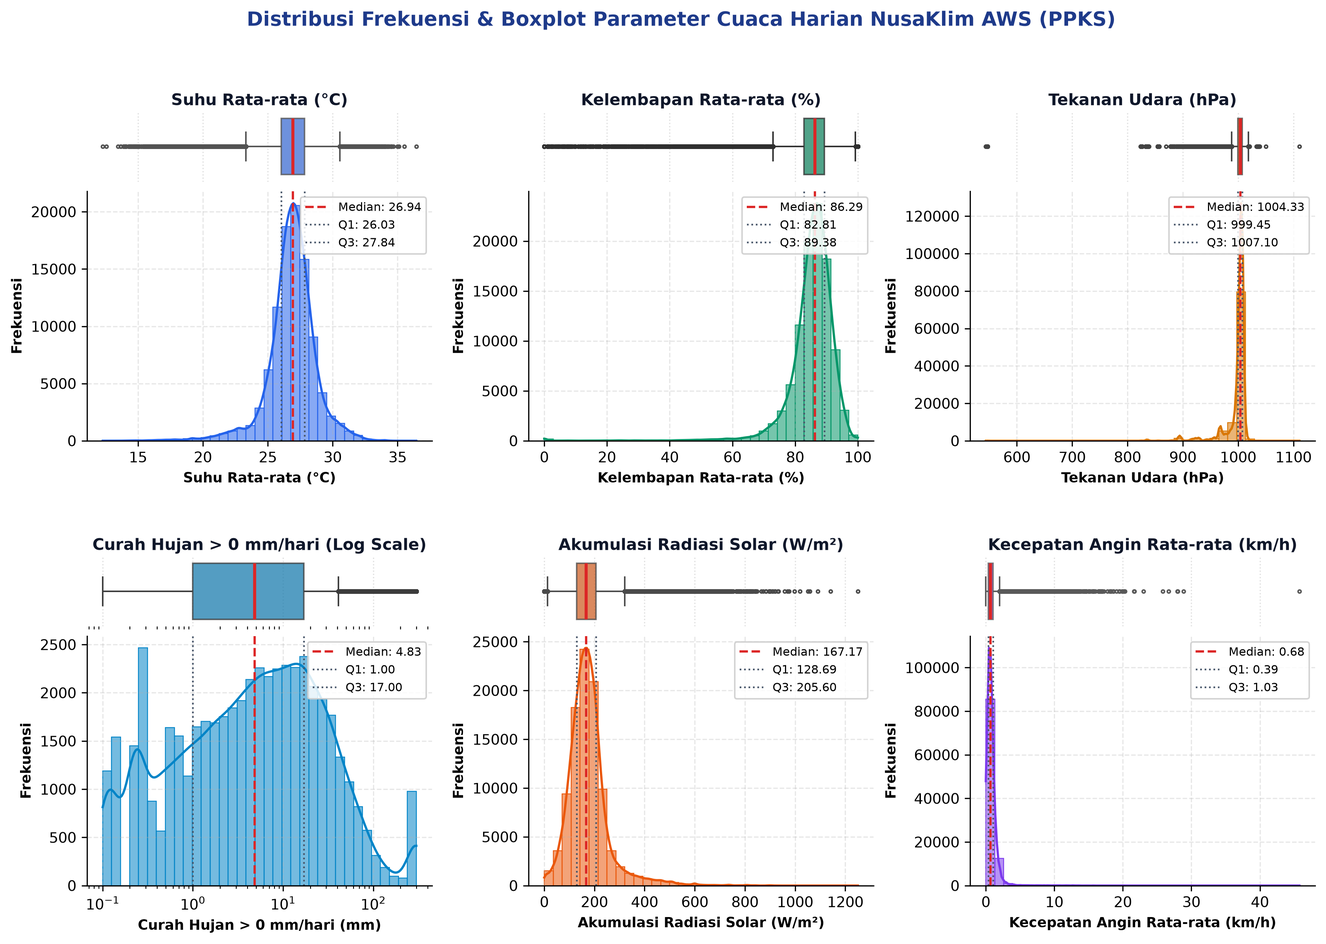
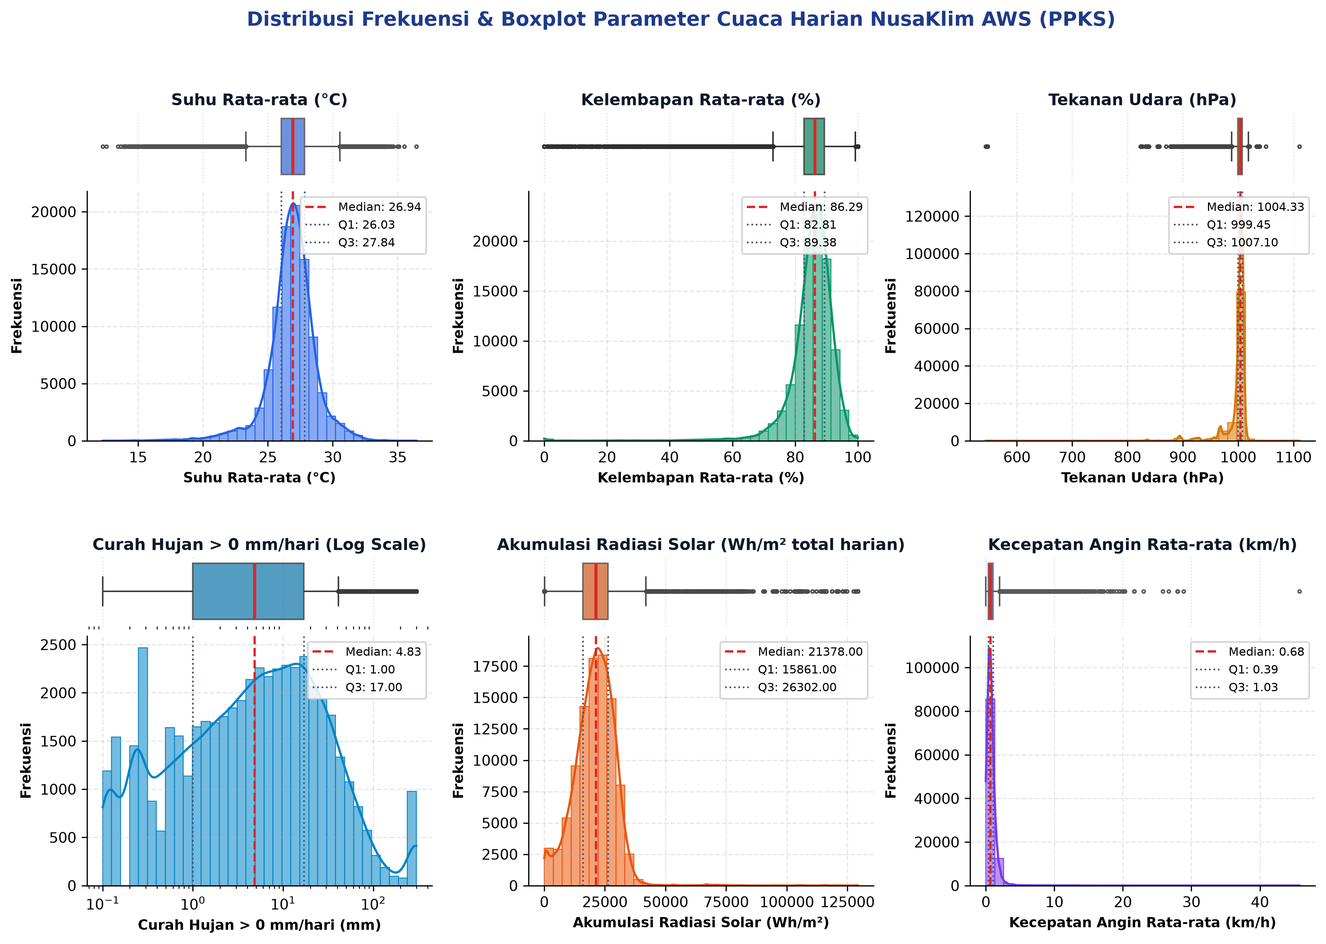
Laporan 2: radiasi sebagai total harian (SUM): statistik, korelasi, dekomposisi, figur

diff --git a/generate_pdf.py b/generate_pdf.py
@@ -235,7 +235,7 @@ story.append(Paragraph(
     '&bull; <b>Prinsip dasar:</b> apabila suatu nilai tidak valid untuk parameter tertentu, nilai tersebut tidak diikutsertakan dalam perhitungan parameter itu (dikosongkan/NaN). Namun, apabila parameter lain pada baris (stasiun &amp; waktu) yang sama masih valid, baris tersebut tetap dipakai untuk perhitungan parameter lain yang valid itu &ndash; satu nilai eror pada satu parameter tidak menggugurkan seluruh baris.<br/>'
     '&bull; <b>Dampak pada rata-rata &amp; agregasi harian:</b> Rata-rata/penjumlahan harian pada Bab 3 dihitung hanya dari nilai interval yang valid (non-NaN) untuk parameter itu pada hari &amp; stasiun bersangkutan; nilai NaN diabaikan (bukan dianggap nol), sehingga tidak mengecilkan rata-rata secara keliru.<br/>'
     '&bull; <b>Status dalam data training model:</b> Nilai eror yang sudah dikosongkan (NaN) <b>tidak diikutsertakan</b> sebagai input pelatihan model &ndash; nilai NaN pada suatu parameter membuat baris tersebut di-skip khusus untuk parameter itu, dan tidak ada nilai eror mentah (mis. 3276.7&deg;F atau 32767) yang pernah masuk ke tahap pemodelan.<br/>'
-    '&bull; <b>Baris dengan sebagian parameter kosong:</b> baris hari-stasiun yang salah satu parameternya kosong tetap disertakan dalam dataset harian 114.507 baris dan tetap dipakai untuk analisis/pemodelan parameter lain yang datanya lengkap; baris tersebut hanya dikeluarkan dari analisis/statistik yang secara khusus mensyaratkan kelengkapan seluruh 8 variabel sekaligus (lihat catatan N Valid 98.911 pada Bab 4.1).',
+    '&bull; <b>Baris dengan sebagian parameter kosong:</b> baris hari-stasiun yang salah satu parameternya kosong tetap disertakan dalam dataset harian 114.507 baris dan tetap dipakai untuk analisis/pemodelan parameter lain yang datanya lengkap; baris tersebut hanya dikeluarkan dari analisis/statistik yang secara khusus mensyaratkan kelengkapan seluruh 8 variabel sekaligus (lihat catatan N Valid 98.651 pada Bab 4.1).',
     style_body
 ))
 
@@ -255,7 +255,7 @@ story.append(Paragraph('3.1 Formula Agregasi Harian', style_h2))
 agg_rules_data = [
     [Paragraph('Variabel Cuaca', style_table_header), Paragraph('Satuan Raw', style_table_header), Paragraph('Satuan Target', style_table_header), Paragraph('Metode Agregasi', style_table_header), Paragraph('Formula Matematis &amp; Keterangan', style_table_header)],
     [Paragraph('<b>Curah Hujan (Rain)</b>', style_table_cell_bold), Paragraph('Tipping raw', style_table_cell), Paragraph('mm / hari', style_table_cell), Paragraph('<b>Penjumlahan (SUM)</b>', style_table_cell_bold), Paragraph('<code>R_harian = &Sigma; (rain15 * 12.70)</code><br/>Akumulasi presipitasi total dalam 24 jam.', style_table_cell)],
-    [Paragraph('<b>Radiasi Solar</b>', style_table_cell_bold), Paragraph('W/m²', style_table_cell), Paragraph('W/m² (rata-rata harian)', style_table_cell), Paragraph('<b>Rata-rata (MEAN)</b>', style_table_cell_bold), Paragraph('<code>Solar_harian = rata-rata (solar_15min)</code><br/>Rata-rata radiasi matahari harian; bukan jumlah, agar tidak bergantung pada banyaknya pembacaan per hari.', style_table_cell)],
+    [Paragraph('<b>Radiasi Solar</b>', style_table_cell_bold), Paragraph('W/m²', style_table_cell), Paragraph('Wh/m² (total harian)', style_table_cell), Paragraph('<b>Jumlah (SUM)</b>', style_table_cell_bold), Paragraph('<code>Solar_harian = jumlah (solar_15min)</code><br/>Total pembacaan radiasi sepanjang hari (skala puluhan ribu, Notulen Poin 12); nilainya ikut dipengaruhi jumlah pembacaan yang diterima server.', style_table_cell)],
     [Paragraph('<b>Suhu Udara (Temp)</b>', style_table_cell_bold), Paragraph('°F', style_table_cell), Paragraph('°C', style_table_cell), Paragraph('<b>Rata-rata (MEAN)</b> + Min/Max', style_table_cell), Paragraph('<code>T_avg = (1/N) &Sigma; T_C</code><br/>Dilengkapi pencatatan <code>T_min</code> dan <code>T_max</code>.', style_table_cell)],
     [Paragraph('<b>Tekanan Barometer</b>', style_table_cell_bold), Paragraph('inHg', style_table_cell), Paragraph('hPa (mbar)', style_table_cell), Paragraph('<b>Rata-rata (MEAN)</b>', style_table_cell), Paragraph('<code>P_avg = (1/N) &Sigma; (bar * 33.864)</code><br/>Rata-rata tekanan permukaan laut / stasiun.', style_table_cell)],
     [Paragraph('<b>Kelembapan (RH)</b>', style_table_cell_bold), Paragraph('%', style_table_cell), Paragraph('%', style_table_cell), Paragraph('<b>Rata-rata (MEAN)</b> + Min/Max', style_table_cell), Paragraph('<code>RH_avg = (1/N) &Sigma; RH</code><br/>Dilengkapi pencatatan <code>RH_min</code> dan <code>RH_max</code>.', style_table_cell)],
@@ -311,16 +311,16 @@ story.append(Paragraph(
     style_body
 ))
 
-story.append(Paragraph('4.1 Statistik Deskriptif Agregasi Harian (Data Lengkap: 98.911 Baris)', style_h2))
+story.append(Paragraph('4.1 Statistik Deskriptif Agregasi Harian (Data Lengkap: 98.651 Baris)', style_h2))
 
 stats_table_data = [
     [Paragraph('Variabel Cuaca', style_table_header), Paragraph('N Valid', style_table_header), Paragraph('Mean &plusmn; Std', style_table_header), Paragraph('Min', style_table_header), Paragraph('Quartil 1<br/>(Q1 / P25)', style_table_header), Paragraph('Median<br/>(Q2 / P50)', style_table_header), Paragraph('Quartil 3<br/>(Q3 / P75)', style_table_header), Paragraph('P99', style_table_header), Paragraph('Max', style_table_header)],
-    [Paragraph('<b>Suhu Rata-rata (°C)</b>', style_table_cell_bold), Paragraph('98.911', style_table_cell_center), Paragraph('26.86 &plusmn; 1.83', style_table_cell_center), Paragraph('12.28', style_table_cell_center), Paragraph('26.04', style_table_cell_center), Paragraph('26.95', style_table_cell_center), Paragraph('27.84', style_table_cell_center), Paragraph('31.33', style_table_cell_center), Paragraph('36.44', style_table_cell_center)],
-    [Paragraph('<b>Kelembapan Avg (%)</b>', style_table_cell_bold), Paragraph('98.911', style_table_cell_center), Paragraph('85.45 &plusmn; 6.69', style_table_cell_center), Paragraph('1.17', style_table_cell_center), Paragraph('82.86', style_table_cell_center), Paragraph('86.32', style_table_cell_center), Paragraph('89.39', style_table_cell_center), Paragraph('96.40', style_table_cell_center), Paragraph('100.00', style_table_cell_center)],
-    [Paragraph('<b>Tekanan Udara (hPa)</b>', style_table_cell_bold), Paragraph('98.911', style_table_cell_center), Paragraph('998.07 &plusmn; 21.60', style_table_cell_center), Paragraph('543.89', style_table_cell_center), Paragraph('999.51', style_table_cell_center), Paragraph('1004.35', style_table_cell_center), Paragraph('1007.11', style_table_cell_center), Paragraph('1013.08', style_table_cell_center), Paragraph('1020.29', style_table_cell_center)],
-    [Paragraph('<b>Curah Hujan (mm/hari)</b>', style_table_cell_bold), Paragraph('98.911', style_table_cell_center), Paragraph('9.19 &plusmn; 32.56', style_table_cell_center), Paragraph('0.00', style_table_cell_center), Paragraph('0.00', style_table_cell_center), Paragraph('0.10', style_table_cell_center), Paragraph('4.80', style_table_cell_center), Paragraph('185.43', style_table_cell_center), Paragraph('300.00', style_table_cell_center)],
-    [Paragraph('<b>Radiasi Solar (W/m²)</b>', style_table_cell_bold), Paragraph('98.911', style_table_cell_center), Paragraph('173.7 &plusmn; 86.2', style_table_cell_center), Paragraph('0', style_table_cell_center), Paragraph('126.7', style_table_cell_center), Paragraph('166.1', style_table_cell_center), Paragraph('204.9', style_table_cell_center), Paragraph('498.9', style_table_cell_center), Paragraph('1141.3', style_table_cell_center)],
-    [Paragraph('<b>Kecepatan Angin (km/h)</b>', style_table_cell_bold), Paragraph('98.911', style_table_cell_center), Paragraph('0.82 &plusmn; 0.94', style_table_cell_center), Paragraph('0.00', style_table_cell_center), Paragraph('0.39', style_table_cell_center), Paragraph('0.68', style_table_cell_center), Paragraph('1.03', style_table_cell_center), Paragraph('3.47', style_table_cell_center), Paragraph('45.77', style_table_cell_center)],
+    [Paragraph('<b>Suhu Rata-rata (°C)</b>', style_table_cell_bold), Paragraph('98.651', style_table_cell_center), Paragraph('26.86 &plusmn; 1.83', style_table_cell_center), Paragraph('12.28', style_table_cell_center), Paragraph('26.04', style_table_cell_center), Paragraph('26.95', style_table_cell_center), Paragraph('27.84', style_table_cell_center), Paragraph('31.33', style_table_cell_center), Paragraph('36.44', style_table_cell_center)],
+    [Paragraph('<b>Kelembapan Avg (%)</b>', style_table_cell_bold), Paragraph('98.651', style_table_cell_center), Paragraph('85.46 &plusmn; 6.69', style_table_cell_center), Paragraph('1.17', style_table_cell_center), Paragraph('82.88', style_table_cell_center), Paragraph('86.33', style_table_cell_center), Paragraph('89.40', style_table_cell_center), Paragraph('96.40', style_table_cell_center), Paragraph('100.00', style_table_cell_center)],
+    [Paragraph('<b>Tekanan Udara (hPa)</b>', style_table_cell_bold), Paragraph('98.651', style_table_cell_center), Paragraph('998.06 &plusmn; 21.63', style_table_cell_center), Paragraph('543.89', style_table_cell_center), Paragraph('999.49', style_table_cell_center), Paragraph('1004.36', style_table_cell_center), Paragraph('1007.12', style_table_cell_center), Paragraph('1013.09', style_table_cell_center), Paragraph('1020.29', style_table_cell_center)],
+    [Paragraph('<b>Curah Hujan (mm/hari)</b>', style_table_cell_bold), Paragraph('98.651', style_table_cell_center), Paragraph('9.20 &plusmn; 32.60', style_table_cell_center), Paragraph('0.00', style_table_cell_center), Paragraph('0.00', style_table_cell_center), Paragraph('0.10', style_table_cell_center), Paragraph('4.75', style_table_cell_center), Paragraph('187.26', style_table_cell_center), Paragraph('300.00', style_table_cell_center)],
+    [Paragraph('<b>Radiasi Solar (Wh/m² total harian)</b>', style_table_cell_bold), Paragraph('98.651', style_table_cell_center), Paragraph('20.584 &plusmn; 8.895', style_table_cell_center), Paragraph('0', style_table_cell_center), Paragraph('15.545', style_table_cell_center), Paragraph('21.222', style_table_cell_center), Paragraph('26.203', style_table_cell_center), Paragraph('37.215', style_table_cell_center), Paragraph('129.312', style_table_cell_center)],
+    [Paragraph('<b>Kecepatan Angin (km/h)</b>', style_table_cell_bold), Paragraph('98.651', style_table_cell_center), Paragraph('0.83 &plusmn; 0.94', style_table_cell_center), Paragraph('0.00', style_table_cell_center), Paragraph('0.39', style_table_cell_center), Paragraph('0.68', style_table_cell_center), Paragraph('1.03', style_table_cell_center), Paragraph('3.48', style_table_cell_center), Paragraph('45.77', style_table_cell_center)],
 ]
 
 tbl_stats = Table(stats_table_data, colWidths=[96, 40, 70, 36, 48, 48, 48, 36, 38])
@@ -336,13 +336,13 @@ story.append(tbl_stats)
 story.append(Spacer(1, 3))
 story.append(Paragraph(
     '<b>Standardisasi N Valid &amp; Interpretasi Rentang Interkuartil (IQR):</b><br/>'
-    '&bull; <b>Mengapa N Valid (98.911) Lebih Kecil dari 114.507 Baris:</b> Statistik pada tabel ini hanya dihitung dari baris yang <b>lengkap</b>, yaitu hari-stasiun di mana seluruh 8 variabel cuaca (suhu, kelembapan, tekanan, curah hujan, radiasi solar, kecepatan angin, dsb.) tercatat valid secara bersamaan pada hari yang sama. Selisih 15.596 baris (13,6%) disebabkan oleh data yang hilang pada salah satu sensor akibat gangguan hardware, koneksi terputus, atau perawatan stasiun, sehingga baris tersebut tidak bisa dipakai untuk perbandingan antar-variabel yang konsisten.<br/>'
+    '&bull; <b>Mengapa N Valid (98.651) Lebih Kecil dari 114.507 Baris:</b> Statistik pada tabel ini hanya dihitung dari baris yang <b>lengkap</b>, yaitu hari-stasiun di mana seluruh 8 variabel cuaca (suhu, kelembapan, tekanan, curah hujan, radiasi solar, kecepatan angin, dsb.) tercatat valid secara bersamaan pada hari yang sama. Selisih 15.856 baris (13,8%) disebabkan oleh data yang hilang pada salah satu sensor akibat gangguan hardware, koneksi terputus, atau perawatan stasiun, sehingga baris tersebut tidak bisa dipakai untuk perbandingan antar-variabel yang konsisten.<br/>'
     '&bull; <b>Suhu Rata-rata:</b> 50% data observasi tengah berada pada rentang stabil 26.04&deg;C (Q1) hingga 27.84&deg;C (Q3) dengan IQR hanya 1.80&deg;C, mencerminkan kestabilan suhu harian yang khas iklim tropis dataran rendah/menengah perkebunan kelapa sawit.<br/>'
-    '&bull; <b>Kelembapan Udara:</b> Q1 bernilai 82.86% dan Q3 mencapai 89.39% (IQR 6.53%), membuktikan lingkungan perkebunan hampir selalu berada pada kelembapan tinggi.<br/>'
-    '&bull; <b>Curah Hujan Harian:</b> Curah hujan memiliki distribusi yang tidak merata. Sebagian besar periode pengamatan nyaris tidak mengalami hujan (median hanya 0,1 mm), sementara beberapa kejadian hujan dengan intensitas lebih tinggi menyebabkan nilai rerata mencapai 9,19 mm &ndash; jauh di atas median. Kesenjangan yang sama terlihat antara Q3 (4.80 mm), P99 (185.43 mm), dan maksimum (300.00 mm): lonjakan drastis dari P99 ke Max mengindikasikan adanya sejumlah kecil hari dengan hujan sangat ekstrem (badai tropis yang datang tiba-tiba), bukan kesalahan pencatatan, karena nilai tersebut masih berada dalam ambang fisik wajar (&le; 300 mm/hari) setelah filter anomali <i>rollover pulse</i>.<br/>'
-    '&bull; <b>Kecepatan Angin:</b> Q1 sebesar 0.39 km/h dan Q3 sebesar 1.03 km/h (Median 0.68 km/h) menandakan sirkulasi udara kanopi harian tergolong sangat tenang (<i>calm</i>). Namun nilai maksimum mencapai 45.77 km/h &ndash; lebih dari 13x lipat dari P99 (3.47 km/h) &ndash; mengindikasikan keberadaan sejumlah kecil kejadian hembusan angin kencang (<i>gust</i>) berdurasi pendek, umumnya bersamaan dengan sistem badai lokal, dan berbeda karakter dari kondisi angin kanopi sawit sehari-hari yang didominasi udara tenang.<br/>'
-    '&bull; <b>Tekanan Udara:</b> Bagian tengah sebaran (IQR) tetap sangat sempit (Q1 999.51 hPa hingga Q3 1007.11 hPa, IQR hanya 7.60 hPa) dengan median 1004.35 hPa, mencerminkan kondisi tekanan permukaan yang stabil khas wilayah dataran rendah tropis ekuatorial. Namun nilai minimum tercatat 543.89 hPa &ndash; jauh di luar IQR &ndash; menandakan segelintir pembacaan ekstrem yang masih lolos batas kewajaran fisik (500-1200 hPa) dan perlu diverifikasi lebih lanjut ke perangkat keras di lapangan.<br/>'
-    '&bull; <b>Radiasi Solar:</b> Dihitung sebagai <b>rata-rata harian</b> dari seluruh pembacaan sensor (siang dan malam). Bagian tengah sebaran (IQR) berada pada Q1 126,7 hingga Q3 204,9 W/m&sup2; dengan median 166,1 W/m&sup2;, mencerminkan variasi tutupan awan harian &ndash; dari hari cerah hingga hari berawan/hujan. Nilai P99 (498,9 W/m&sup2;) dan maksimum (1.141,3 W/m&sup2;) berada <b>di atas batas fisik rata-rata harian</b> di ekuator (sekitar 430 W/m&sup2; di puncak atmosfer), sehingga diduga berasal dari sensor yang tidak terkalibrasi atau macet pada sebagian stasiun (sekitar 1,6% hari-stasiun bernilai &gt;450 W/m&sup2;, terbanyak pada stasiun 252, 2105, dan 2176). Nilai ini ditandai sebagai kandidat pemeriksaan lapangan dan belum dihapus otomatis karena masih lolos filter kewajaran per-pembacaan (0&ndash;2.000 W/m&sup2;).',
+    '&bull; <b>Kelembapan Udara:</b> Q1 bernilai 82.88% dan Q3 mencapai 89.40% (IQR 6.52%), membuktikan lingkungan perkebunan hampir selalu berada pada kelembapan tinggi.<br/>'
+    '&bull; <b>Curah Hujan Harian:</b> Curah hujan memiliki distribusi yang tidak merata. Sebagian besar periode pengamatan nyaris tidak mengalami hujan (median hanya 0,1 mm), sementara beberapa kejadian hujan dengan intensitas lebih tinggi menyebabkan nilai rerata mencapai 9,20 mm &ndash; jauh di atas median. Kesenjangan yang sama terlihat antara Q3 (4.75 mm), P99 (187.26 mm), dan maksimum (300.00 mm): lonjakan drastis dari P99 ke Max mengindikasikan adanya sejumlah kecil hari dengan hujan sangat ekstrem (badai tropis yang datang tiba-tiba), bukan kesalahan pencatatan, karena nilai tersebut masih berada dalam ambang fisik wajar (&le; 300 mm/hari) setelah filter anomali <i>rollover pulse</i>.<br/>'
+    '&bull; <b>Kecepatan Angin:</b> Q1 sebesar 0.39 km/h dan Q3 sebesar 1.03 km/h (Median 0.68 km/h) menandakan sirkulasi udara kanopi harian tergolong sangat tenang (<i>calm</i>). Namun nilai maksimum mencapai 45.77 km/h &ndash; lebih dari 13x lipat dari P99 (3.48 km/h) &ndash; mengindikasikan keberadaan sejumlah kecil kejadian hembusan angin kencang (<i>gust</i>) berdurasi pendek, umumnya bersamaan dengan sistem badai lokal, dan berbeda karakter dari kondisi angin kanopi sawit sehari-hari yang didominasi udara tenang.<br/>'
+    '&bull; <b>Tekanan Udara:</b> Bagian tengah sebaran (IQR) tetap sangat sempit (Q1 999.49 hPa hingga Q3 1007.12 hPa, IQR hanya 7.63 hPa) dengan median 1004.36 hPa, mencerminkan kondisi tekanan permukaan yang stabil khas wilayah dataran rendah tropis ekuatorial. Namun nilai minimum tercatat 543.89 hPa &ndash; jauh di luar IQR &ndash; menandakan segelintir pembacaan ekstrem yang masih lolos batas kewajaran fisik (500-1200 hPa) dan perlu diverifikasi lebih lanjut ke perangkat keras di lapangan.<br/>'
+    '&bull; <b>Radiasi Solar:</b> Dihitung sebagai <b>total harian</b> (penjumlahan seluruh pembacaan sensor, siang dan malam; Notulen Poin 12), sehingga berskala puluhan ribu dan ikut dipengaruhi jumlah pembacaan yang diterima server per hari. Bagian tengah sebaran (IQR) berada pada Q1 15.545 hingga Q3 26.203 dengan median 21.222, mencerminkan variasi tutupan awan harian dan kelengkapan pembacaan. Nilai P99 (37.215) dan maksimum (129.312) jauh di atas sebaran umum; sekitar 0.6% hari-stasiun bernilai &gt;40.000, terbanyak pada stasiun 2176, 2120, 221, sehingga diduga berasal dari sensor macet/tidak terkalibrasi atau pembacaan ganda. Nilai ini ditandai sebagai kandidat pemeriksaan lapangan dan belum dihapus otomatis.<br/>',
     style_body
 ))
 
@@ -393,9 +393,9 @@ story.append(tbl_corr_scale)
 story.append(Spacer(1, 5))
 
 story.append(Paragraph(
-    '&bull; <b>Hubungan Suhu vs Kelembapan (r = -0.38, Lemah&ndash;Sedang):</b> Suhu rata-rata dan kelembapan relatif menunjukkan korelasi negatif <b>lemah</b> (bukan sangat kuat). Arah hubungan tetap konsisten dengan fisika atmosfer &ndash; saat suhu naik, kapasitas udara menampung uap air jenuh meningkat sehingga RH cenderung turun &ndash; namun kekuatannya lemah karena basis harian merata-ratakan variasi siang-malam, dan faktor lain (tutupan awan, curah hujan, angin) turut memengaruhi kelembapan secara independen dari suhu semata. Hubungan paling menonjol pada matriks korelasi (Gambar 4) justru muncul antara <b>Tekanan Udara dan Suhu Rata-rata (r = +0.52, Sedang)</b>.<br/>'
-    '&bull; <b>Hubungan Radiasi Solar vs Suhu &amp; Kelembapan:</b> Radiasi solar berkorelasi positif dengan suhu rata-rata (r = +0.55, kategori <b>sedang</b>) dan negatif dengan kelembapan (r = -0.48, kategori <b>sedang</b>). Arahnya sesuai dugaan ilmiah (radiasi matahari memanaskan permukaan dan menurunkan kelembapan); kekuatannya hanya sedang (bukan kuat) karena radiasi solar harian sangat dipengaruhi tutupan awan sepanjang hari, sementara suhu rata-rata/kelembapan mencerminkan kondisi 24 jam penuh termasuk malam hari saat radiasi bernilai nol.<br/>'
-    '&bull; <b>Korelasi terhadap Curah Hujan:</b> Curah hujan menunjukkan korelasi <b>sangat lemah</b> terhadap sebagian besar variabel cuaca lain pada basis harian (suhu rata-rata r = -0.14, kelembapan r = -0.15, tekanan r = -0.14, radiasi solar r = +0.03), kecuali kecepatan angin yang menunjukkan korelasi <b>sedang</b> (r = +0.46) &ndash; hari-hari berangin lebih kencang cenderung juga lebih banyak hujan, konsisten dengan pola badai tropis yang membawa angin kencang bersamaan dengan hujan lebat. Lemahnya keterkaitan pada variabel lain wajar secara alami karena hujan adalah kejadian yang muncul tiba-tiba (khas tropis), bukan proses yang berubah bertahap seperti suhu atau tekanan. <b>Implikasi bagi desain model:</b> lemahnya keterkaitan antar-variabel pada hari yang sama ini menegaskan bahwa hanya mengandalkan riwayat curah hujan itu sendiri tidak cukup untuk meramal hujan secara akurat. Sinyal yang lebih relevan justru berasal dari pola perubahan beberapa hari sebelumnya pada berbagai variabel sekaligus (mis. riwayat/lag kelembapan 1&ndash;3 hari terakhir, penurunan tekanan &Delta;P = P(t-1) &minus; P(t-2)) &ndash; sehingga model yang mempelajari fitur riwayat dari banyak variabel sekaligus, seperti yang dipakai pada Model Prediksi Cuaca 7 Hari (lihat Bab 2 Laporan Model Prediksi Cuaca 7 Hari), lebih tepat dibandingkan model sederhana yang hanya melihat satu variabel pada satu titik waktu.',
+    '&bull; <b>Hubungan Suhu vs Kelembapan (r = -0.28, Lemah):</b> Suhu rata-rata dan kelembapan relatif menunjukkan korelasi negatif <b>lemah</b> (bukan sangat kuat). Arah hubungan tetap konsisten dengan fisika atmosfer &ndash; saat suhu naik, kapasitas udara menampung uap air jenuh meningkat sehingga RH cenderung turun &ndash; namun kekuatannya lemah karena basis harian merata-ratakan variasi siang-malam, dan faktor lain (tutupan awan, curah hujan, angin) turut memengaruhi kelembapan secara independen dari suhu semata. Hubungan paling menonjol pada matriks korelasi (Gambar 4) justru muncul antara <b>Tekanan Udara dan Suhu Rata-rata (r = +0.52, Sedang)</b>.<br/>'
+    '&bull; <b>Hubungan Radiasi Solar vs Suhu &amp; Kelembapan:</b> Radiasi solar (total harian) berkorelasi positif dengan suhu rata-rata (r = +0.37, kategori <b>lemah&ndash;sedang</b>) dan negatif dengan kelembapan (r = -0.28, kategori <b>lemah</b>). Arahnya sesuai dugaan ilmiah (radiasi matahari memanaskan permukaan dan menurunkan kelembapan); kekuatannya hanya lemah&ndash;sedang (bukan kuat) karena radiasi solar harian sangat dipengaruhi tutupan awan sepanjang hari, sementara suhu rata-rata/kelembapan mencerminkan kondisi 24 jam penuh termasuk malam hari saat radiasi bernilai nol.<br/>'
+    '&bull; <b>Korelasi terhadap Curah Hujan:</b> Curah hujan menunjukkan korelasi <b>sangat lemah</b> terhadap sebagian besar variabel cuaca lain pada basis harian (suhu rata-rata r = -0.13, kelembapan r = -0.12, tekanan r = -0.14, radiasi solar r = -0.01), kecuali kecepatan angin yang menunjukkan korelasi <b>sedang</b> (r = +0.45) &ndash; hari-hari berangin lebih kencang cenderung juga lebih banyak hujan, konsisten dengan pola badai tropis yang membawa angin kencang bersamaan dengan hujan lebat. Lemahnya keterkaitan pada variabel lain wajar secara alami karena hujan adalah kejadian yang muncul tiba-tiba (khas tropis), bukan proses yang berubah bertahap seperti suhu atau tekanan. <b>Implikasi bagi desain model:</b> lemahnya keterkaitan antar-variabel pada hari yang sama ini menegaskan bahwa hanya mengandalkan riwayat curah hujan itu sendiri tidak cukup untuk meramal hujan secara akurat. Sinyal yang lebih relevan justru berasal dari pola perubahan beberapa hari sebelumnya pada berbagai variabel sekaligus (mis. riwayat/lag kelembapan 1&ndash;3 hari terakhir, penurunan tekanan &Delta;P = P(t-1) &minus; P(t-2)) &ndash; sehingga model yang mempelajari fitur riwayat dari banyak variabel sekaligus, seperti yang dipakai pada Model Prediksi Cuaca 7 Hari (lihat Bab 2 Laporan Model Prediksi Cuaca 7 Hari), lebih tepat dibandingkan model sederhana yang hanya melihat satu variabel pada satu titik waktu.',
     style_body
 ))
 
@@ -464,8 +464,8 @@ decomp_figs = [
      'puncak bulan Februari, terendah bulan Agustus, amplitudo ±2,59 hPa', '±1,25 hPa di sekitar nol'),
     ('hujan', 'Curah Hujan Rata-rata', 'mm/hari', '4,28 → 11,04 mm/hari (naik, mengikuti pertumbuhan cakupan &amp; distribusi stasiun baru)',
      'puncak bulan November, terendah bulan Juli, amplitudo ±4,99 mm', '±1,90 mm di sekitar nol'),
-    ('radiasi', 'Radiasi Solar Rata-rata', 'W/m²', '161,7 → 191,3 W/m² (naik 18,3%)',
-     'puncak bulan September, terendah bulan Januari, amplitudo ±32,2 W/m²', '±7,9 W/m² di sekitar nol'),
+    ('radiasi', 'Radiasi Solar (Total Harian)', 'Wh/m²', '21.375,9 → 24.287,0 Wh/m² (naik 13,6%)',
+     'puncak bulan Maret, terendah bulan Juni, amplitudo ±5.576,8 Wh/m²', '±2.160,7 Wh/m² di sekitar nol'),
     ('angin', 'Kecepatan Angin Rata-rata', 'km/jam', '0,83 → 0,97 km/jam (naik 16,1%)',
      'puncak bulan Agustus, terendah bulan Mei, amplitudo ±0,15 km/jam', '±0,06 km/jam di sekitar nol'),
 ]

diff --git a/generate_timeseries_decomposition.py b/generate_timeseries_decomposition.py
@@ -44,7 +44,7 @@ PARAMS = [
     dict(col='humidity_avg', slug='kelembapan', title='Kelembapan Rata-rata', unit='%', color='#0284C7'),
     dict(col='pressure_avg_hpa', slug='tekanan', title='Tekanan Udara Rata-rata', unit='hPa', color='#7C3AED'),
     dict(col='rainfall_total_mm', slug='hujan', title='Curah Hujan Rata-rata Nasional', unit='mm/hari', color='#2563EB'),
-    dict(col='solar_radiation_avg', slug='radiasi', title='Radiasi Solar Rata-rata', unit='W/m\u00b2', color='#EA580C'),
+    dict(col='solar_radiation_avg', slug='radiasi', title='Radiasi Solar (Total Harian)', unit='Wh/m²', color='#EA580C'),
     dict(col='wind_speed_avg', slug='angin', title='Kecepatan Angin Rata-rata', unit='km/jam', color='#059669'),
 ]
 

diff --git a/fix_eda_figures.py b/fix_eda_figures.py
@@ -217,7 +217,7 @@ axes[0, 0].legend(loc='upper right')
 axes[0, 0].set_title('Tren Rangkaian Waktu Cuaca Harian Nasional – Parameter Tambahan (2022 - 2026)', fontweight='bold', fontsize=13)
 
 axes[0, 1].plot(daily_b.index, solar_ma, color='#EA580C', lw=1.3, label='Radiasi Solar (7-day MA)')
-axes[0, 1].set_ylabel('Radiasi Solar (W/m²)', fontweight='bold', fontsize=11)
+axes[0, 1].set_ylabel('Radiasi Solar (Wh/m² total harian)', fontweight='bold', fontsize=11)
 axes[0, 1].legend(loc='upper right')
 
 axes[1, 0].plot(daily_b.index, windspd_ma, color='#7C3AED', lw=1.3, label='Kecepatan Angin (7-day MA)')

diff --git a/generate_distributions_with_boxplots.py b/generate_distributions_with_boxplots.py
@@ -50,9 +50,9 @@ vars_config = [
     },
     {
         'col': 'solar_radiation_avg',
-        'name': 'Akumulasi Radiasi Solar (W/m²)',
+        'name': 'Akumulasi Radiasi Solar (Wh/m² total harian)',
         'color': '#EA580C',
-        'unit': 'W/m²',
+        'unit': 'Wh/m²',
         'data': df[df['solar_radiation_avg'] > 0]['solar_radiation_avg'].dropna()
     },
     {
